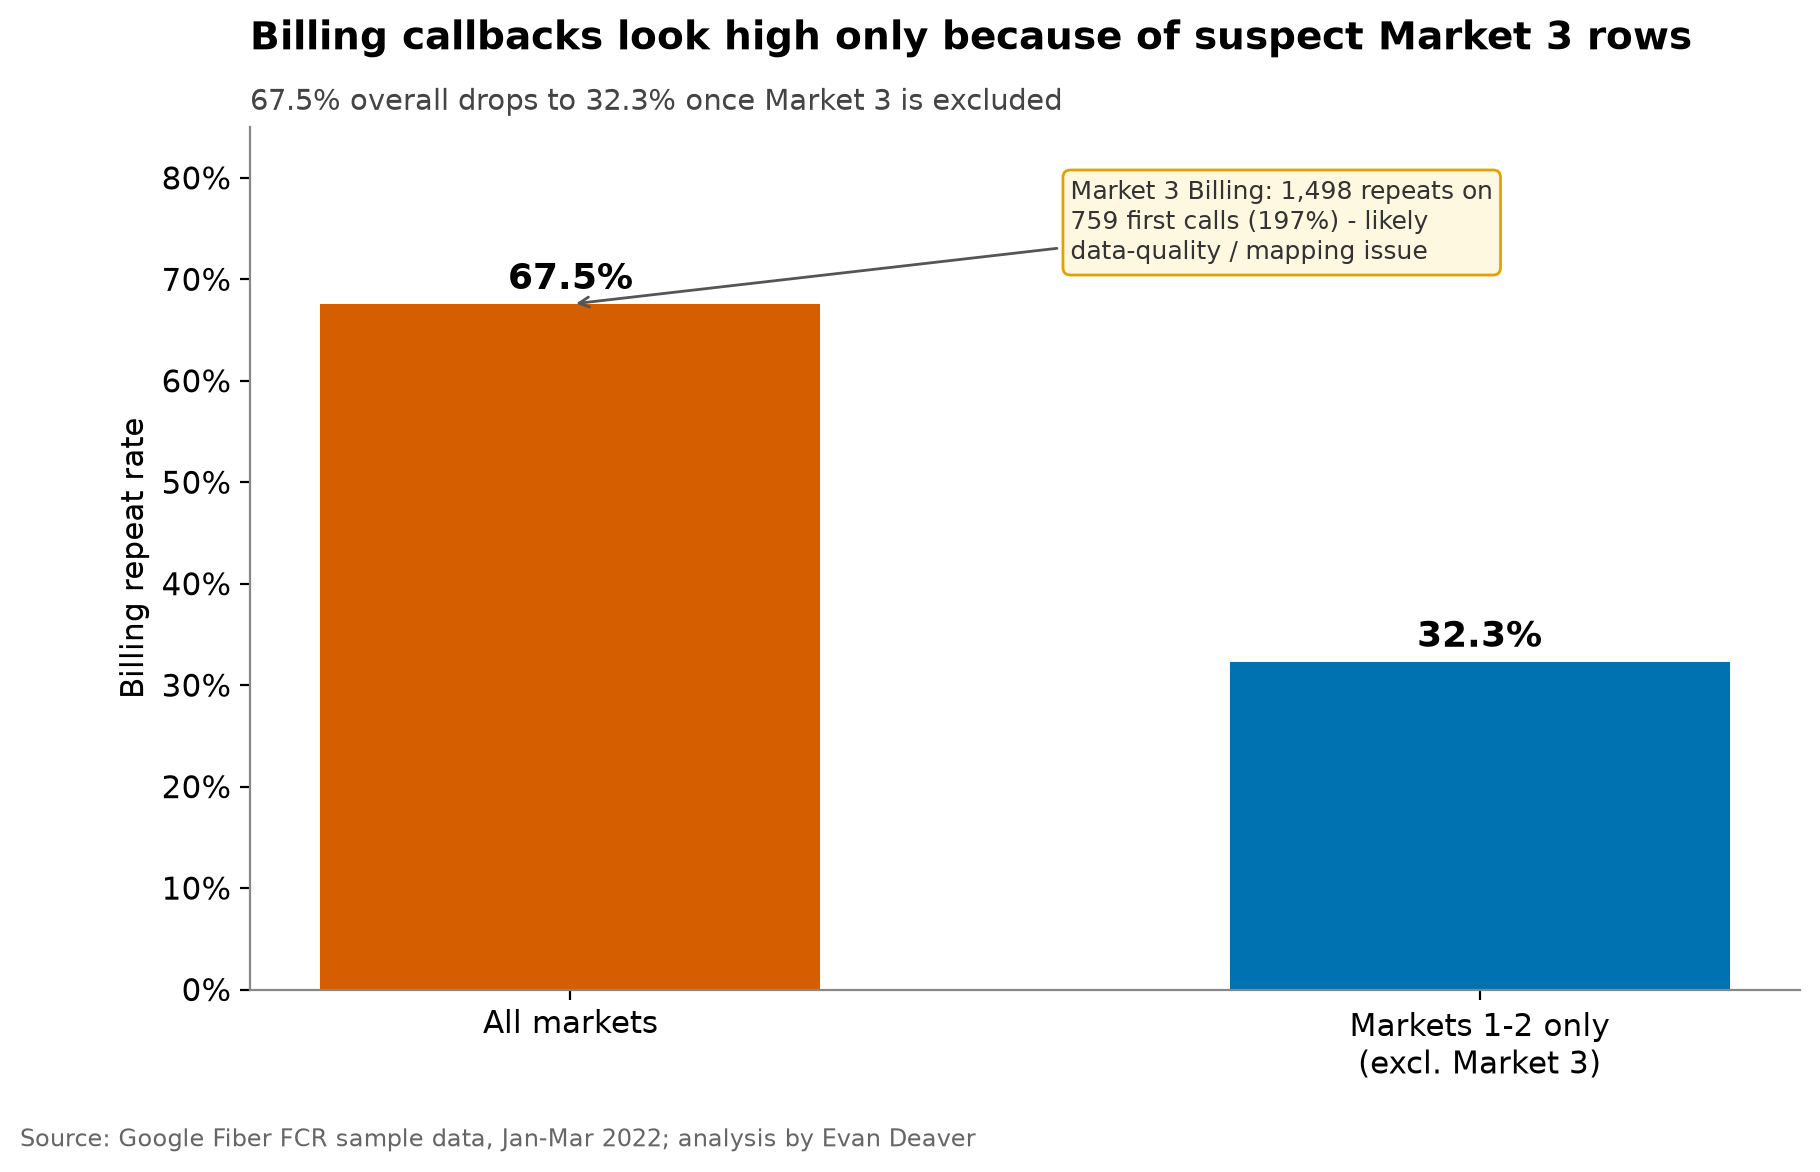
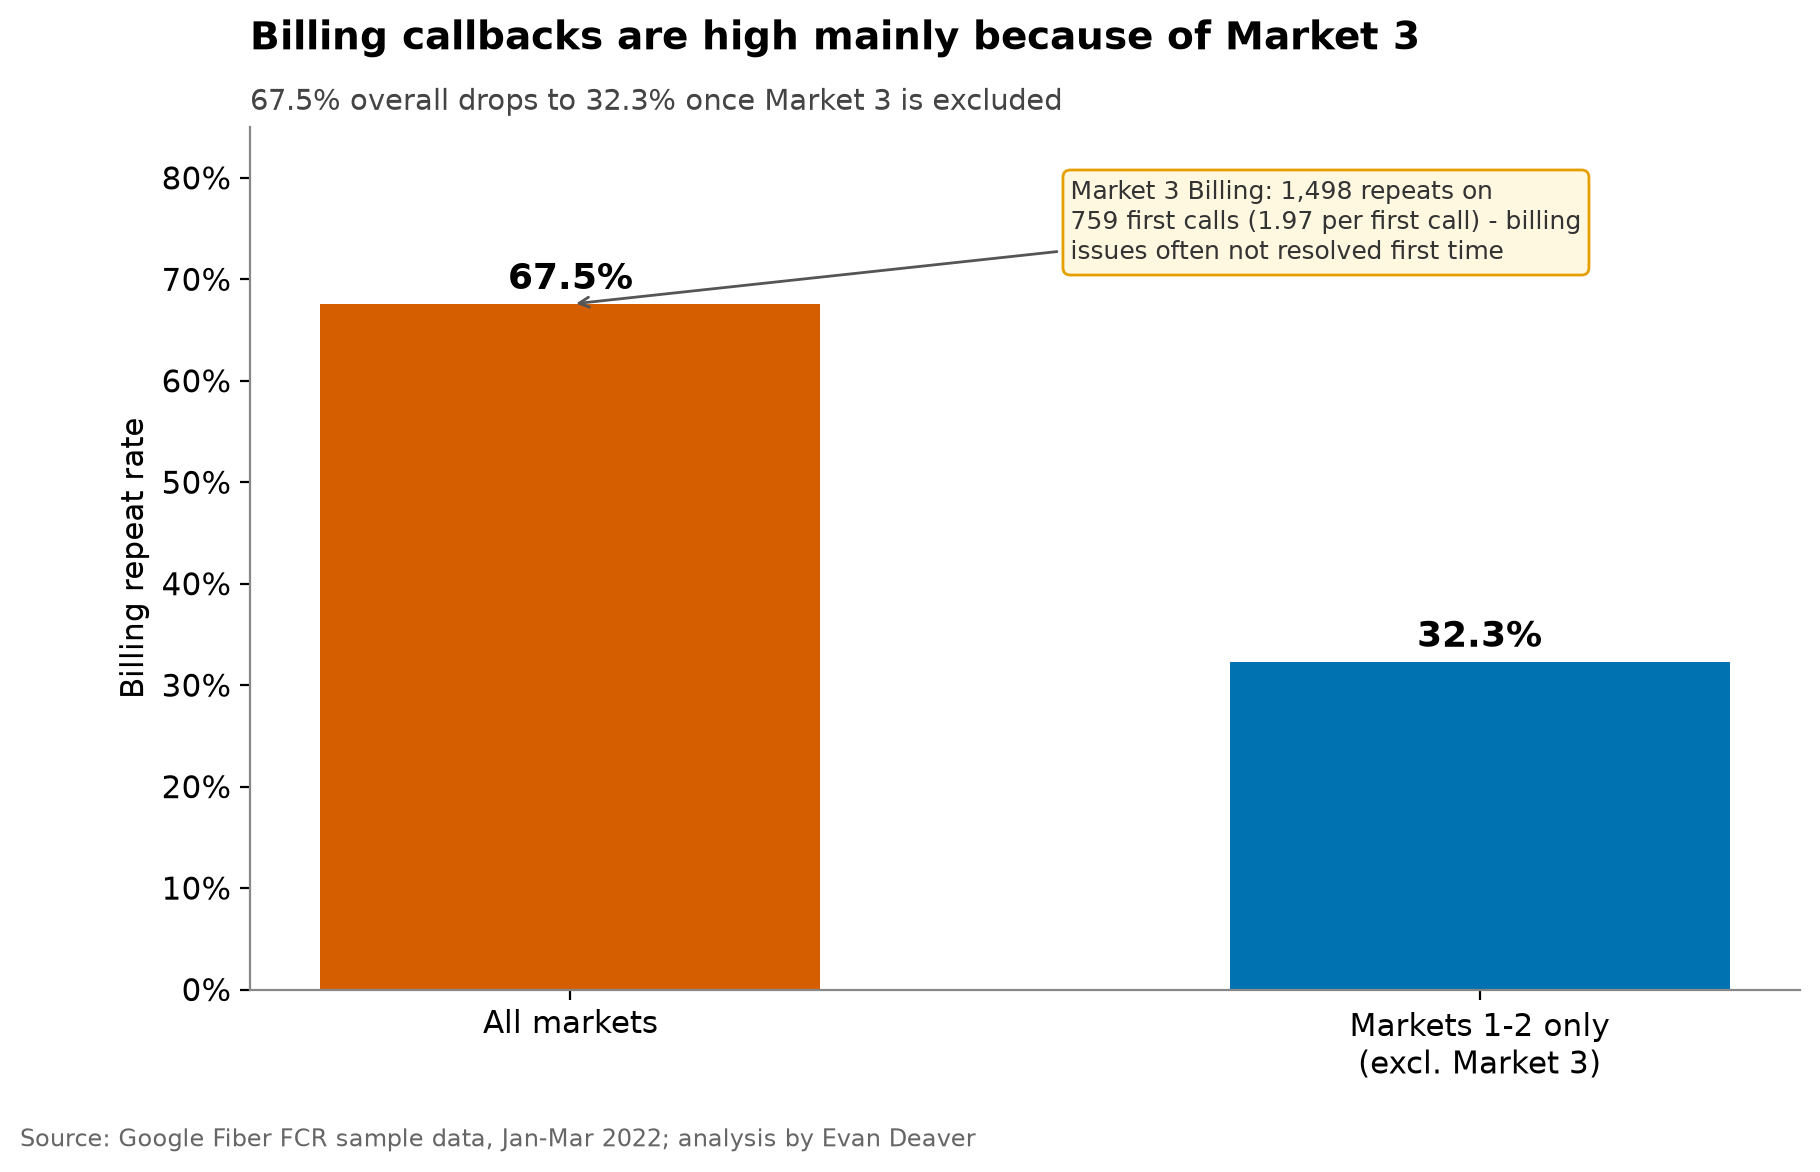
Google Fiber: reframe market_3 Billing repeats (1.97 per first call) as a finding, not a data error

Changed region(s): [[0.3385, 0.0, 0.9231, 0.0614], [0.5846, 0.1229, 0.8923, 0.2457], [0.4, 0.215, 0.5538, 0.2457]]

diff --git a/projects/google-fiber-fcr/code/app/streamlit_app.py b/projects/google-fiber-fcr/code/app/streamlit_app.py
@@ -50,8 +50,8 @@ def overview(d):
 
 **Main findings**
 - Two problem types, Wi-Fi & Internet and Technical Troubleshooting, cause most repeat calls.
-- Market_3 has the highest repeat rate (44.7%; 36.7% without its impossible Billing rows).
-- Market_3's Billing numbers are impossible (more repeats than first calls), so they're most likely a data error. See *Billing: a data check*.
+- Market_3 has the highest repeat rate (44.7%; 36.7% without its Billing calls).
+- Market_3 Billing gets about 1.97 repeat calls per first call, so billing issues there often aren't resolved on first contact. See *Billing in market_3*.
 
 Use the pages on the left to explore.""")
     footer()
@@ -96,11 +96,11 @@ def markets(d):
 
 
 def billing(d):
-    st.header("Billing: a data check")
+    st.header("Billing in market_3")
     _b = d[(d.problem_category == "Account Management & Billing") & (d.market != "market_3")]
-    st.markdown(f"**Answer:** Billing only looks bad because of suspect market_3 rows; without them its repeat rate is {_b.repeat_calls.sum() / _b.first_calls.sum():.1%}.")
+    st.markdown(f"**Answer:** Billing looks bad mainly because of market_3, where billing issues often take several calls; without market_3 its repeat rate is {_b.repeat_calls.sum() / _b.first_calls.sum():.1%}.")
     st.markdown("Billing looks like the worst problem type. But in market_3, Billing logs **more repeat calls than first calls**, "
-                "which is impossible if repeats are follow-ups to first calls.")
+                "about 1.97 per first call. One customer can call back several times, so billing issues there are often not resolved on first contact.")
     b = d[d.problem_category == "Account Management & Billing"]
     by_m = rates(b, "market")
     st.dataframe(by_m[["market", "first_calls", "repeat_calls", "repeat_rate_pct"]].rename(columns={
@@ -131,7 +131,7 @@ def weekly(d):
     footer()
 
 
-PAGES = {"Overview": overview, "Problem types": problems, "Markets": markets, "Billing: a data check": billing, "Week by week": weekly}
+PAGES = {"Overview": overview, "Problem types": problems, "Markets": markets, "Billing in market_3": billing, "Week by week": weekly}
 
 
 def main():

diff --git a/projects/google-fiber-fcr/code/src/polish_figures.py b/projects/google-fiber-fcr/code/src/polish_figures.py
@@ -79,7 +79,7 @@ def draw_wt_share(ax, neutral=True):
     ax.legend(loc="upper center", bbox_to_anchor=(0.5, -0.1), ncol=2, frameon=False, fontsize=9)
     t = (f"Wi-Fi and tech problems cause {wt_share:.1f}% of repeat calls: fixing them first cuts the most callbacks" if neutral else
          "Wi-Fi + Tech Troubleshooting are the majority of repeats in every market")
-    title(ax, t, f"Share by market, Q1 2022. Market 3 is {share['market_3']:.1f}% with suspect Billing rows, {share_ex['market_3']:.1f}% without")
+    title(ax, t, f"Share by market, Q1 2022. Market 3 is {share['market_3']:.1f}% with Billing, {share_ex['market_3']:.1f}% without")
 
 def draw_rate_by_cat(ax):
     c = cat.sort_values("repeat_rate_pct")
@@ -117,11 +117,11 @@ def draw_billing(ax):
     for bb, v in zip(bars, vals): ax.text(bb.get_x() + bb.get_width()/2, v + 1.5, f"{v:.1f}%", ha="center", fontweight="bold", fontsize=13)
     ax.set_ylim(0, 85); ax.yaxis.set_major_formatter(PercentFormatter()); ax.set_ylabel("Billing repeat rate")
     ax.annotate(f"Market 3 Billing: {METRICS['m3_bill_rep']:,} repeats on\n{METRICS['m3_bill_first']:,} first calls "
-                f"({METRICS['m3_bill_rep']/METRICS['m3_bill_first']*100:.0f}%) - likely\ndata-quality / mapping issue",
+                f"({METRICS['m3_bill_rep']/METRICS['m3_bill_first']:.2f} per first call) - billing\nissues often not resolved first time",
                 xy=(0, bill_all), xytext=(0.55, 72), fontsize=9, color="#333",
                 arrowprops=dict(arrowstyle="->", color="#555"),
                 bbox=dict(boxstyle="round", fc="#FFF8E1", ec=ORANGE))
-    title(ax, "Billing callbacks look high only because of suspect Market 3 rows", f"{bill_all:.1f}% overall drops to {bill_ex3:.1f}% once Market 3 is excluded")
+    title(ax, "Billing callbacks are high mainly because of Market 3", f"{bill_all:.1f}% overall drops to {bill_ex3:.1f}% once Market 3 is excluded")
 
 def draw_weekly(ax):
     ax.plot(wk.week, wk.repeat_rate_pct, color=BLUE, lw=2.2, marker="o", ms=4)

diff --git a/projects/google-fiber-fcr/code/tests/test_app.py b/projects/google-fiber-fcr/code/tests/test_app.py
@@ -8,7 +8,7 @@ st_testing = pytest.importorskip("streamlit.testing.v1")
 PAGES = ['Overview',
          'Problem types',
          'Markets',
-         'Billing: a data check',
+         'Billing in market_3',
          'Week by week']
 
 

diff --git a/projects/google-fiber-fcr/code/README.md b/projects/google-fiber-fcr/code/README.md
@@ -41,12 +41,12 @@ To deploy on Streamlit Community Cloud, set the main file to `projects/google-fi
 Case study from the **Google Data Analytics Professional Certificate** capstone (Google Fiber scenario). The data is fictional/anonymized: 1,350 rows covering 3 markets × 5 problem types × 90 days (Jan 1 – Mar 31, 2022).
 
 ### Headline
-**Wi-Fi & Internet + Technical Troubleshooting drive about 80% of repeat calls (80.2% overall).** Their share of repeats varies by market: **market_1 87.1%, market_2 89.3%, market_3 66.5%**. Market_3 is lower mainly because of its anomalous Billing rows; without them it would be 85.3%.
+**Wi-Fi & Internet + Technical Troubleshooting drive about 80% of repeat calls (80.2% overall).** Their share of repeats varies by market: **market_1 87.1%, market_2 89.3%, market_3 66.5%**. Market_3 is lower mainly because of its very high Billing repeat volume; without Billing it would be 85.3%.
 
 
 **Market_3 has the highest repeat rate, 44.7%** (6,806 / 15,217), against 27.9% in market_1 and 17.9% in market_2. It deserves a closer look, starting with its data.
 
-**Billing, two ways:** 67.5% overall (2,400 / 3,553) but **32.3% without market_3** (902 / 2,794). Market_3 Billing logs 1,498 repeats against only 759 first calls. If repeats are follow-ups to first calls, that is impossible, so it's a likely data-quality or category-mapping issue to investigate before treating Billing as a problem area.
+**Billing, two ways:** 67.5% overall (2,400 / 3,553) but **32.3% without market_3** (902 / 2,794). Market_3 Billing logs 1,498 repeats against 759 first calls, about 1.97 repeats per first call. Repeats can outnumber first calls because one customer can call back several times, so this means billing issues in market_3 are often not resolved on first contact. That is worth investigating.
 
 ![Billing with and without market_3](../images/billing_with_without_market3.png)
 
@@ -76,7 +76,7 @@ Every headline metric is also computed in DuckDB SQL in [`sql/fcr_metrics.sql`](
 
 ### Suggestions (hypotheses to test, not proven by this data)
 1. **Wi-Fi & Tech (biggest lever):** pilot better first-call diagnostics and measure the effect on callbacks.
-2. **Market_3:** audit its data pipeline and type-code mapping (the Billing anomaly), then review its operations; it also has the highest Scheduling rate (75.9%).
+2. **Market_3:** investigate why Billing issues there so often need more calls (about 1.97 repeats per first call), then review its other operations; it also has the highest Scheduling rate (75.9%).
 3. **Billing:** hold conclusions until the market_3 data is explained. Outside market_3, Billing (32.3%) is in line with the other categories.
 4. **Scheduling (60.6%, 1,469 repeats):** test giving customers appointment-status visibility.
 
@@ -98,7 +98,7 @@ data/raw/market_1-3.csv ──► src/fcr.py (load, label codes, metrics) ──
 ## Design decisions (and why)
 1. **Repeat rate = repeat calls ÷ first calls.** A simple, explainable metric (FCR ≈ 100 − repeat rate); its limit (one customer can call back more than once) is stated.
 2. **Every headline computed twice, in Python and in SQL.** A pytest checks they match, so a bug in one shows up as a mismatch.
-3. **Flag the anomaly instead of reporting it as a finding.** Market_3 Billing logs more repeats than first calls, which is impossible if repeats follow first calls, so it's treated as a data-quality issue and shown with and without market_3.
+3. **Show Billing with and without market_3.** Market_3 Billing logs more repeats than first calls (about 1.97 per first call), which can happen when customers call back several times. It is reported as a finding and shown both ways so the market_3 effect is clear.
 4. **Suggestions are written as hypotheses to test.** The data has no call reasons, customer IDs or costs, so it can show where repeats cluster, not why.
 5. **Colorblind-safe palette and one message per chart.** Charts are built for a non-technical reader.
 6. **DuckDB for the SQL.** It runs the same SQL in-memory from Python with no database server.

diff --git a/projects/google-fiber-fcr/STORY.md b/projects/google-fiber-fcr/STORY.md
@@ -24,23 +24,23 @@ Mostly. Wi-Fi + Technical make up 87.1% of repeats in market_1 and 89.3% in mark
 
 ![Share of repeats from Wi-Fi and technical problems, by market](images/wifi_tech_share_by_market.png)
 
-**What this means:** the pattern holds in market_1 and market_2; in market_3 these two make up only two-thirds of repeats, partly due to its suspect Billing numbers.
+**What this means:** the pattern holds in market_1 and market_2; in market_3 these two make up only two-thirds of repeats, partly because of its very high Billing repeat volume.
 
 ## 3. Which market has the most callbacks?
 
-Market_3: 44.7% of its first calls lead to a repeat call (36.7% without its impossible Billing rows, still the highest), compared with 27.9% in market_1 and 17.9% in market_2.
+Market_3: 44.7% of its first calls lead to a repeat call (36.7% without its Billing calls, still the highest), compared with 27.9% in market_1 and 17.9% in market_2.
 
 ![Repeat rate by market](images/repeat_rate_by_market.png)
 
-**What this means:** market_3 is the outlier. Before blaming its support team, check its data.
+**What this means:** market_3 is the outlier, and Billing is a big part of why.
 
 ## 4. Is Billing really a problem?
 
-At first glance Account Management & Billing ("Billing") has the worst repeat rate: 67.5%. But market_3 records 1,498 Billing repeat calls against only 759 Billing first calls. You can't have more follow-up calls than calls, so this is most likely a data or labelling error. Without market_3, Billing's repeat rate is 32.3%, in line with the other problem types.
+At first glance Account Management & Billing ("Billing") has the worst repeat rate: 67.5%. But market_3 records 1,498 Billing repeat calls against only 759 Billing first calls. That's about 1.97 repeat calls per first call. Repeats can outnumber first calls because one customer can call back several times, so billing issues in market_3 often aren't resolved on the first contact. Without market_3, Billing's repeat rate is 32.3%, in line with the other problem types.
 
 ![Billing repeat rate with and without market_3](images/billing_with_without_market3.png)
 
-**What this means:** a striking number can be a data problem. Fix market_3's data before making any decision about Billing.
+**What this means:** Billing is a market_3 problem, not a company-wide one. It's worth finding out why billing issues there take so many calls.
 
 ## 5. Which problems are hardest to fix in one call?
 
@@ -60,8 +60,8 @@ Weekly repeat calls rise and fall with the number of first calls. The first week
 
 ## Summary
 1. Wi-Fi & Internet and Technical Troubleshooting cause 80.2% of repeat calls.
-2. Market_3 has the highest repeat rate (44.7%, or 36.7% without its impossible Billing rows).
-3. Market_3's Billing numbers are impossible and need fixing before anyone acts on them.
+2. Market_3 has the highest repeat rate (44.7%, or 36.7% without its Billing calls).
+3. Market_3 Billing gets about 1.97 repeat calls per first call, so billing issues there often aren't resolved on first contact.
 4. Scheduling is small but hard to resolve in one call (60.6%).
 
 ## Limitations (in plain words)

diff --git a/projects/google-fiber-fcr/README.md b/projects/google-fiber-fcr/README.md
@@ -14,14 +14,14 @@ Every time a customer has to call support again about the same issue, it costs t
 
 ## Key findings
 - **Two problem types drive 80.2% of repeat calls:** Wi-Fi & Internet (50.7%) and Technical Troubleshooting (29.6%), across 20,240 repeat calls in Q1 2022.
-- **Market_3 has the highest repeat rate, 44.7%** (36.7% without its impossible Billing rows), against 27.9% in market_1 and 17.9% in market_2.
-- **Likely a data problem, not a billing problem:** for Account Management & Billing, market_3 logs 1,498 Billing repeats against only 759 first calls, which is impossible. Without market_3, Billing's repeat rate drops from 67.5% to 32.3%.
+- **Market_3 has the highest repeat rate, 44.7%** (36.7% without its Billing calls), against 27.9% in market_1 and 17.9% in market_2.
+- **Market_3 Billing issues often aren't resolved on the first call:** market_3 logs 1,498 Billing repeats against 759 first calls, about 1.97 repeats per first call (one customer can call back several times). Without market_3, Billing's repeat rate drops from 67.5% to 32.3%, so this is a market_3 problem worth investigating.
 - **Scheduling has the second-highest repeat rate, 60.6%** (1,469 repeat calls; 50.0% outside market_3), a candidate for appointment-status updates.
 
 ## What I built
 - A Python analysis of 64,939 first calls and their 7-day repeats across 3 markets and 5 problem types.
 - The same metrics in SQL (DuckDB, CTEs and window functions), with a test that SQL and Python agree.
-- A data-quality check that caught and isolated the impossible market_3 Billing numbers.
+- A market-by-market breakdown that isolated market_3's very high Billing repeat volume.
 - Polished, colorblind-safe charts and an interactive Plotly dashboard.
 
 ## Tools
